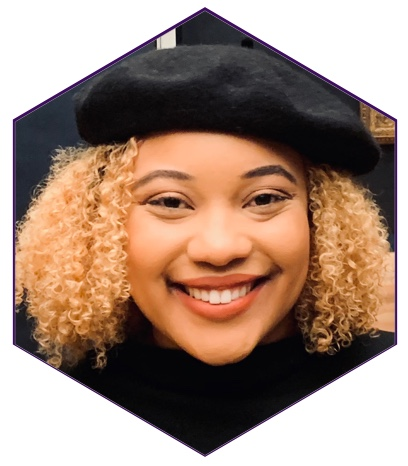
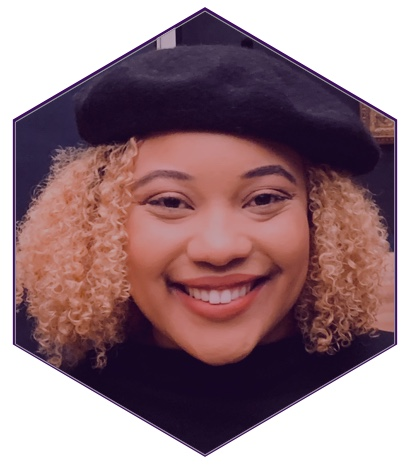
added elaine

diff --git a/index.html b/index.html
@@ -94,10 +94,8 @@
         <div class="row">
           <div class="col-lg-12 my-auto">
             <div class="header-content mx-auto">
-              <h1 class="mb-5">
-                🎉 Stay tuned for 2 more speakers we are inviting this year! 🎉
-              </h1>
-
+             
+             <h1>Your #IWDTO 2020 Speakers </h1>
               <div class="clearfix speaker">
                 <img src="img/speakers/bhavana.png" class="float-left"/>
                 <h3>Bhavana Srinivas</h3>
@@ -108,7 +106,19 @@
               </div>
 
               <div class="clearfix speaker">
-                <img src="img/speakers/jen.jpg" class="float-right"/>
+                <img src="img/speakers/elaine.jpg" class="float-right"/>
+                <h3>Elaine Arakill</h3>
+                <p>
+                 <a href="https://www.linkedin.com/in/elaine-arakill-safe-sa-pmp-4b349528/">Elaine Arakill</a> is an Agile Program Director, Coach and Solution Train Engineer for the Technology Infrastructure team at RBC. In her role, she transforms technology teams to work together in a more agile and efficient way to ensure they deliver optimal business outcomes. In 2010, Elaine started a family and challenged herself to begin working smarter, not harder, to balance these priorities. Armed with a new found confidence in her capabilities, she began to drive her career forward in a new direction by seeking out more dynamic opportunities that sparked her interest. Over the last decade, Elaine has continued to pivot in her career and is passionate about sharing her challenges, successes and key learnings, with the next generation of women in technology.
+
+                </p>  
+              </div>
+
+
+              
+
+              <div class="clearfix speaker">
+                <img src="img/speakers/jen.jpg" class="float-left"/>
                 <h3>Jen Looper</h3>
                 <p>
                  <a href="https://twitter.com/jenlooper" target="_blank">Jen Looper</a> is a Google Developer Expert and a Cloud Developer Advocate Lead at Microsoft on the Academic Team with over 20 years' experience as a web and mobile developer, specializing in creating cross-platform mobile apps. She's a multilingual multiculturalist with a passion for hardware hacking, mobile apps, Vue.js, machine learning and discovering new things every day. She is the founder and CEO of Vue Vixens, an international nonprofit charity that promotes diversity in the Vue.js community. 
@@ -119,7 +129,7 @@
             </div>
 
               <div class="clearfix speaker">
-                <img src="img/speakers/kyla.png" class="float-left"/>
+                <img src="img/speakers/kyla.png" class="float-right"/>
                 <h3>Kyla Fox</h3>
                 <p>
                  <a href="https://twitter.com/kylafoxcentre" target="_blank">Kyla Fox</a> has established herself as a visionary and innovator, when it comes to re-framing the way Canadians think about and treat, eating disorders. As someone who struggled herself with an eating disorder, Fox identified care gaps and fundamental flaws in the treatment and recovery approach. Kyla is a Master’s level clinician with degrees from both the University of Toronto in the Master’s of Social Work program as well as an Honours Bachelor of Arts Degree in Women’s Studies. With such deep and varied experience in the field, Kyla is regularly called on by Canada’s top media outlets as a special commentator on a broad list of topics, including: eating disorders, self-esteem, women’s health, body image, pregnancy and body confidence and more. The Kyla Fox Centre was recently highlighted on Gwyneth Paltrow’s highly acclaimed lifestyle website Goop. 
@@ -127,7 +137,7 @@
               </div>
 
               <div class="clearfix speaker">
-                <img src="img/speakers/kate.jpg" class="float-right"/>
+                <img src="img/speakers/kate.jpg" class="float-left"/>
                 <h3>Kate McLoughlin</h3>
                 <p>
                  <a href="https://www.linkedin.com/in/kate-mcloughlin-24153079/" target="_blank">Kate McLoughlin</a> is a principal product manager at Shutterstock in New York. Her team builds tools that empower artists from around the world to make money selling their images and videos on Shutterstock’s two-sided marketplace. An active musician, she graduated from McGill with a Masters in Music in Orchestral Conducting and continues to play the bassoon regularly (no genre is off limits). In all her work, Kate works to create and maintain space for awesome teams to do awesome stuff. 
@@ -135,10 +145,20 @@
               </div>
 
               <div class="clearfix speaker">
-                <img src="img/speakers/youri.jpg" class="float-left"/>
+                <img src="img/speakers/youri.jpg" class="float-right"/>
                 <h3>Youri Wims</h3>
                 <p>
                  <a href="http://twitter.com/_yourijwims_" target="_blank">Youri Wims</a> is a Web Developer at ecobee. She specializes in front-end technologies and languages, but never shys away from opportunities to dive into the back-end. She enjoys creating user-centered products that are not only innovative and optimized, but also accessible. Previously, as a UI Developer for Mozilla, she also served as one of the content creators for the Mozilla Developer YouTube channel where she was able to conceptualize and produce accessibility tutorials. As someone who is relatively new in the dev community, she is enthusiastic about educating and helping new developers transition into the dev world feeling confident, prepared, and ready to make a positive impact. 
+                </p>  
+              </div>
+
+              <div class="clearfix speaker">
+                <img src="img/speakers/anita2.jpg" class="float-left"/>
+                <h3>Anita Clarke (Master of Ceremonies)</h3>
+                <p>
+                 <a href="https://twitter.com/geekigirl" target="_blank">Anita Clarke</a> is an Engineering Storyteller at Shopify and the founder of the fashion blog “I want - I got.” She is one of the first and most prominent online fashion writers in Toronto and Canada. 
+
+                Anita's 14-year career as an award-winning Software Quality Assurance professional and a decade-long blogging career lead her to Shopify. As an Engineering Storyteller, she shares the stories of Shopify's engineering discipline. She's spoken about her technology journey with DevTO, ITAC Inspiring Tech Careers Conference and TD Then and Now.
                 </p>  
               </div>
 
